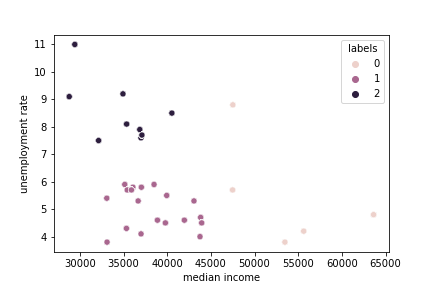
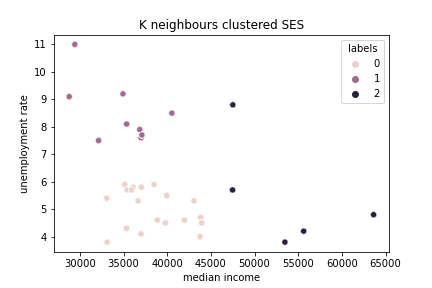
added visualizing functions

diff --git a/assignment02/visualizing&grouping.py b/assignment02/visualizing&grouping.py
@@ -8,14 +8,14 @@ import matplotlib.pyplot as plt
 from scipy.stats           import  linregress, spearmanr
 from sklearn.cluster       import  KMeans
 from sklearn.preprocessing import  StandardScaler
-
+from sklearn.preprocessing import LabelEncoder
 
 fig_path = os.path.join(os.getcwd(), 'visuals')
 df = pd.read_csv(r'data\filtered_merged_data_2019.csv')
 data =  df.copy()
 
-#drops unnecessary data for the visualization
-data.drop(['Unnamed: 0', 'Date', 'Part of a policing operation', 'Policing operation',
+#drops unnecessary data , all variables in part of policing operation are False.
+data.drop(['Unnamed: 0', 'Date', 'Part of policing operation', 'Policing operation',
            'Latitude', 'Longitude','postcode'], axis=1, inplace=True)
 
 #renames columns for ease of use
@@ -38,10 +38,10 @@ new_df = pd.DataFrame(grouped, columns=['borough','stops','median income',
                                         'arrests','unemployment'])
 
 ##########visualize linear relationships########################
-def line_int(var1 , var2):
-    line = linregress(new_df[var1], new_df[var2])
-    plt.plot(new_df[var1], new_df[var2], 'o', label='data')
-    plt.plot(new_df[var1], line.intercept + line.slope*new_df[var1],
+def line_int(df , var1 , var2):
+    line = linregress(df[var1], df[var2])
+    plt.plot(df[var1], df[var2], 'o', label='data')
+    plt.plot(df[var1], line.intercept + line.slope*df[var1],
                                             'r', label='fitted line')
 
     title = f'correlation between {var1} and {var2}'
@@ -53,7 +53,7 @@ def line_int(var1 , var2):
     return line.pvalue
 
 for x in ['stops','median income', 'unemployment']:
-    line_int('arrests', x )
+    line_int(new_df,'arrests', x )
 
 
 #################k means clusterign to find groups among unemployment and median household income###############
@@ -74,15 +74,77 @@ def elbowing():
     plt.plot(range(1,11), wcss, marker='o', linestyle='-')
     plt.show()
 
-#n clusters = 3
+#n clusters = (3 or 4 unpreceise elbow chart)
 kmean = KMeans(n_clusters=3)
-kmean.fit(test2)
-
+kmean.fit(data_standard)
+#create vbariable called labels
 data_k['labels']=kmean.labels_
 data_k.dropna(inplace=True)
 
 sns.scatterplot(x=data_k['median income'],
                 y=data_k['unemployment rate'],
                 hue=data_k['labels'])
+plt.title('K neighbours clustered SES')
 
 plt.savefig(os.path.join(fig_path,'scatter_test_kmeans'))
+print(data_k)
+data['SES groups'] = kmean.labels_
+
+
+le = LabelEncoder()
+data['Outcome'] = le.fit_transform(data['Outcome'])
+data['Outcome'].value_counts()
+data.dropna(inplace=True)
+print(data.isnull().sum())
+data.nunique().plot.bar()
+print(data['Part of a policing operation'].unique())
+#object of search frequency
+
+
+def plot_object_search(data, type, save=False):
+    '''
+       --------------------------------------------------------
+       Plot the frequency of reasons for search
+       --------------------------------------------------------
+       data = data to be plotted in the form data['var']
+       type = title /type of data being plotted
+       save = if True saves the figure in the folder visuals
+       --------------------------------------------------------
+       '''
+
+    visual_data = data.copy()
+
+    def replace_test(x):
+        '''replaces the long worded
+           objects for search for shorter ones to
+           make it easier to read in graph'''
+
+        replace = {'Evidence of offences under the Act': 'Offence Evidence',
+                   'Articles for use in criminal damage': 'criminal damage evidence'}
+
+        if x in replace.keys():
+            x = replace[x]
+        return x
+
+    visual_data['Object of search'] = visual_data['Object of search'].apply(
+        lambda x: replace_test(x))
+
+    title = f'Frequency of {type}'
+    perc = visual_data['Object of search'].value_counts() / len(data)
+    fig = perc.sort_values(ascending=False).plot.bar(
+        y='Object of search', rot=70, color='lightcoral')
+    fig.set_title(title)
+    fig.set_ylabel('Percentage of total stop and search occurences')
+    if save:
+        plt.savefig(os.path.join('visuals',title), bbox_inches='tight')
+    print('-'*50)
+    plt.show()
+    print('-'*50)
+    print(perc)
+    print('-'*50)
+
+test1 = data[data['Outcome'] == 0]
+test2 = data[data['Outcome'] == 1]
+
+plot_object_search(test1, 'dismissed cases', save=True)
+plot_object_search(test2, 'Arrest cases', save=True)
